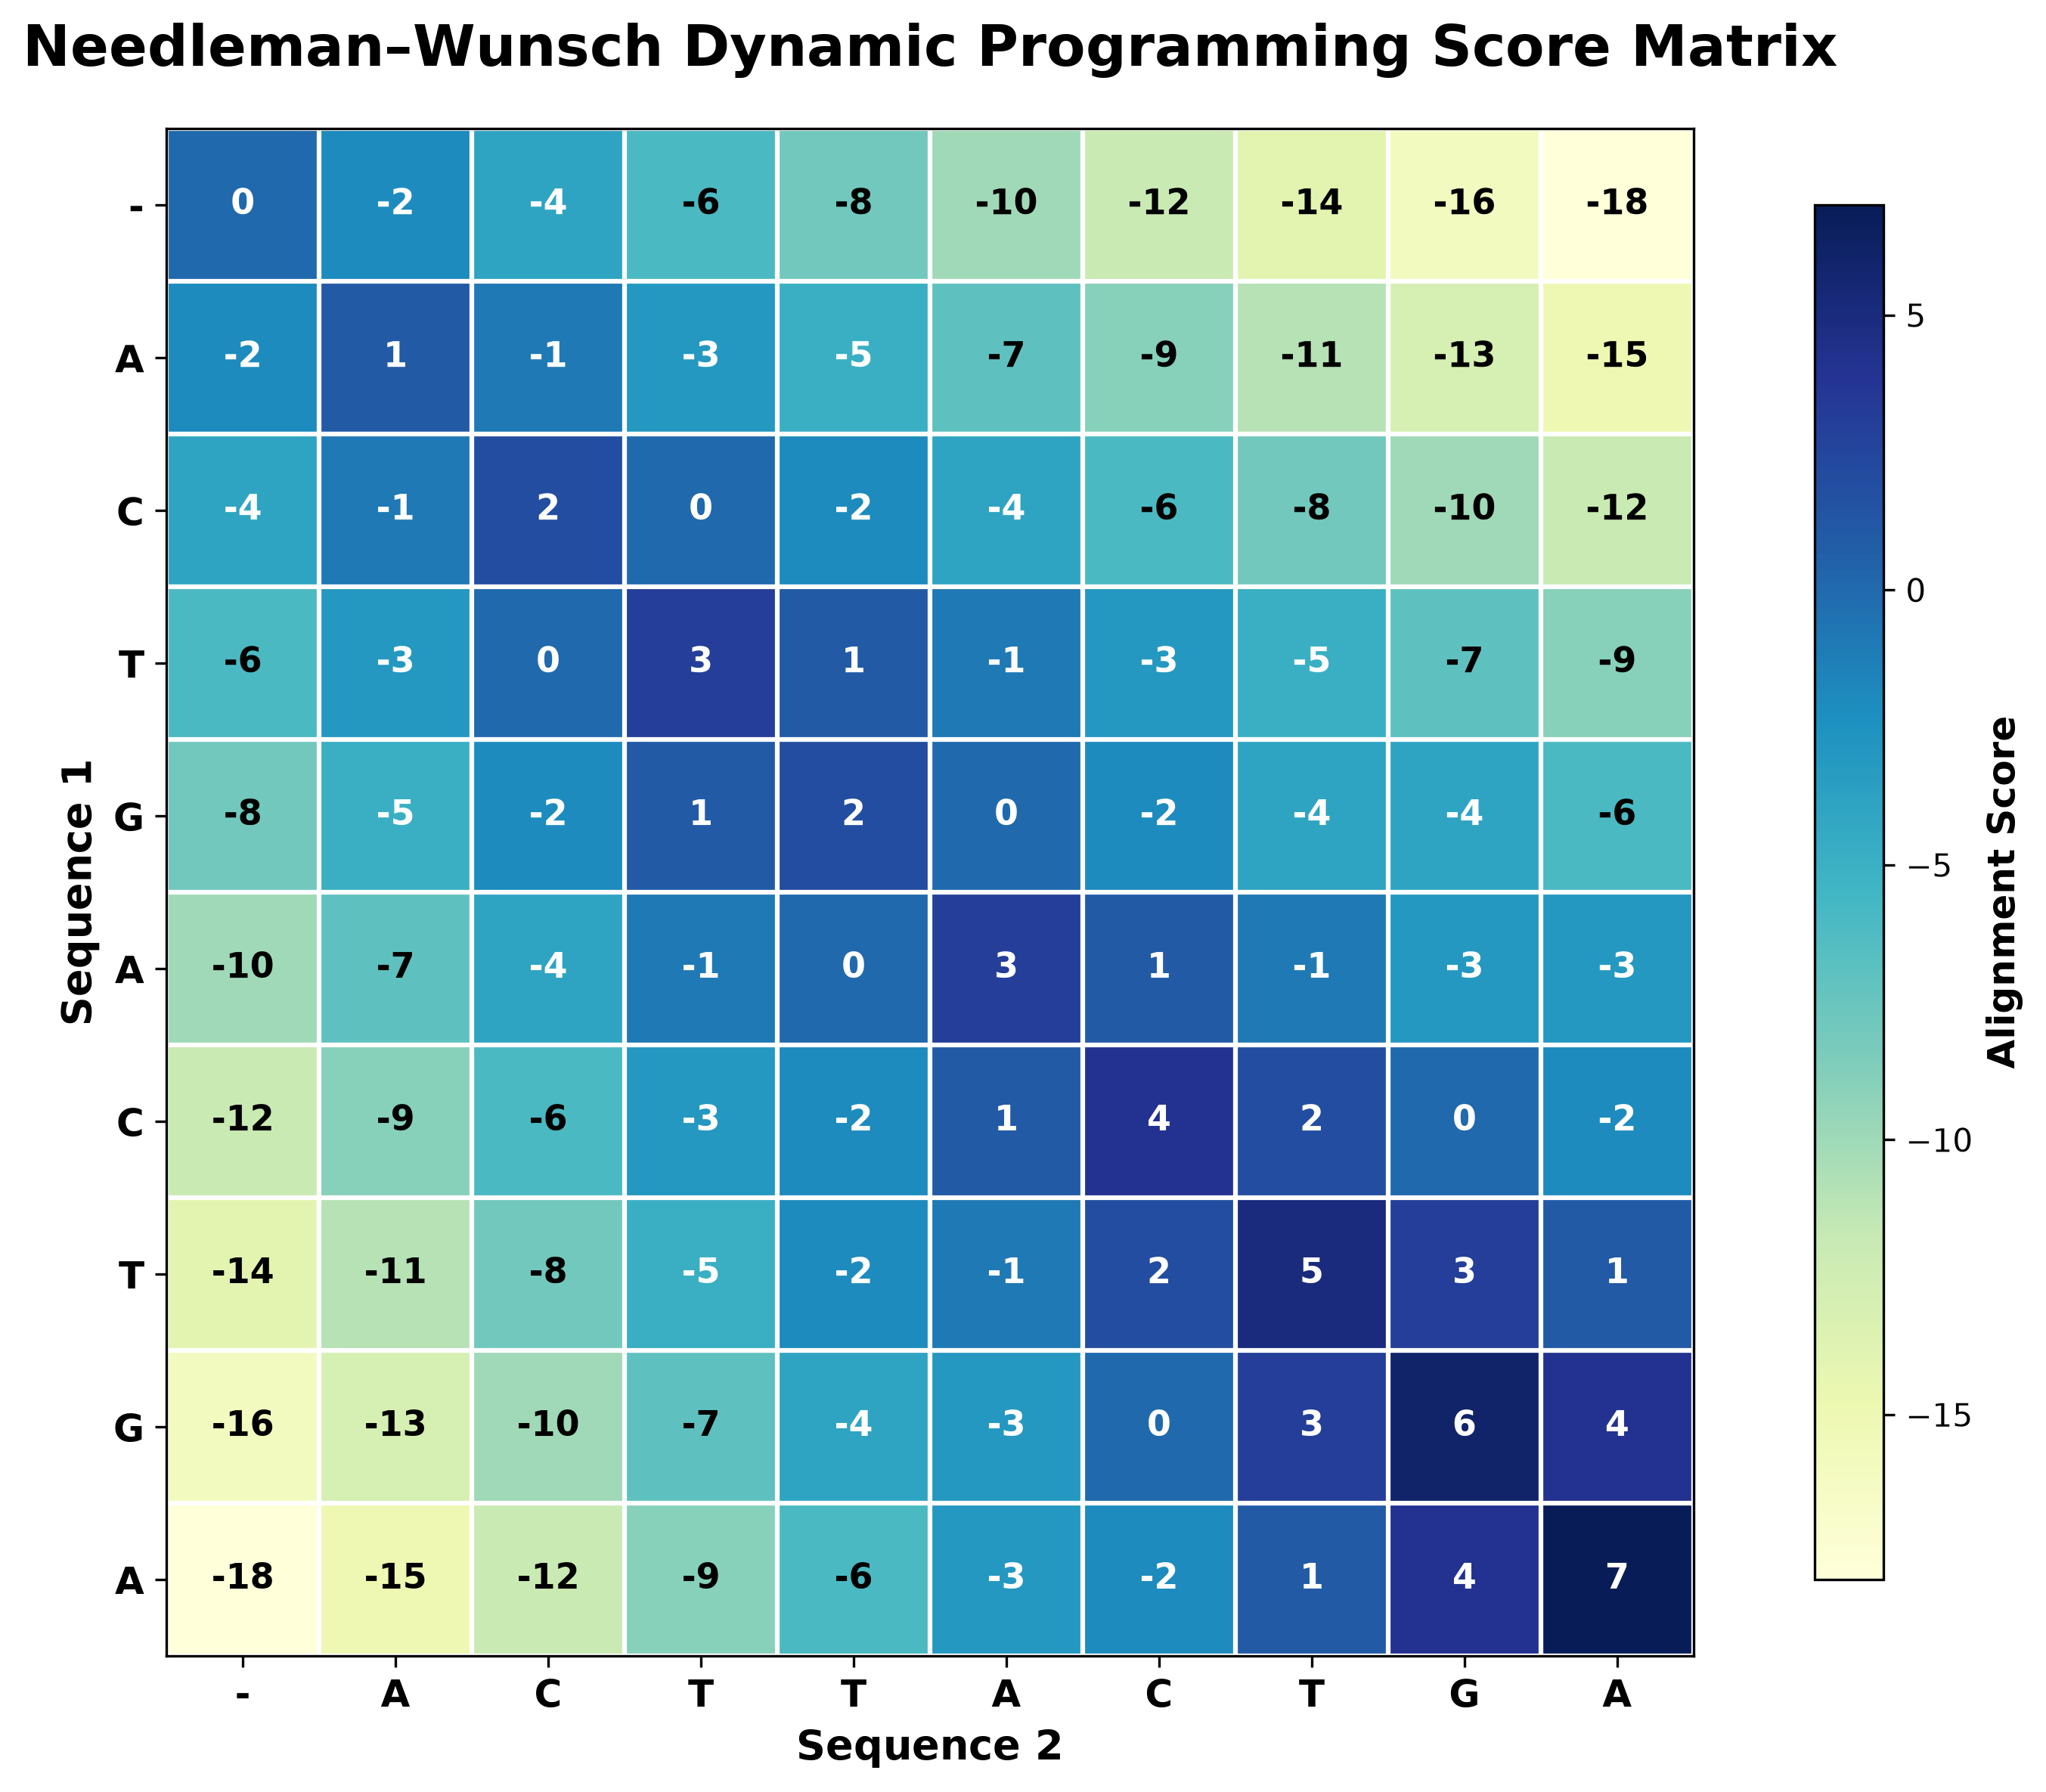
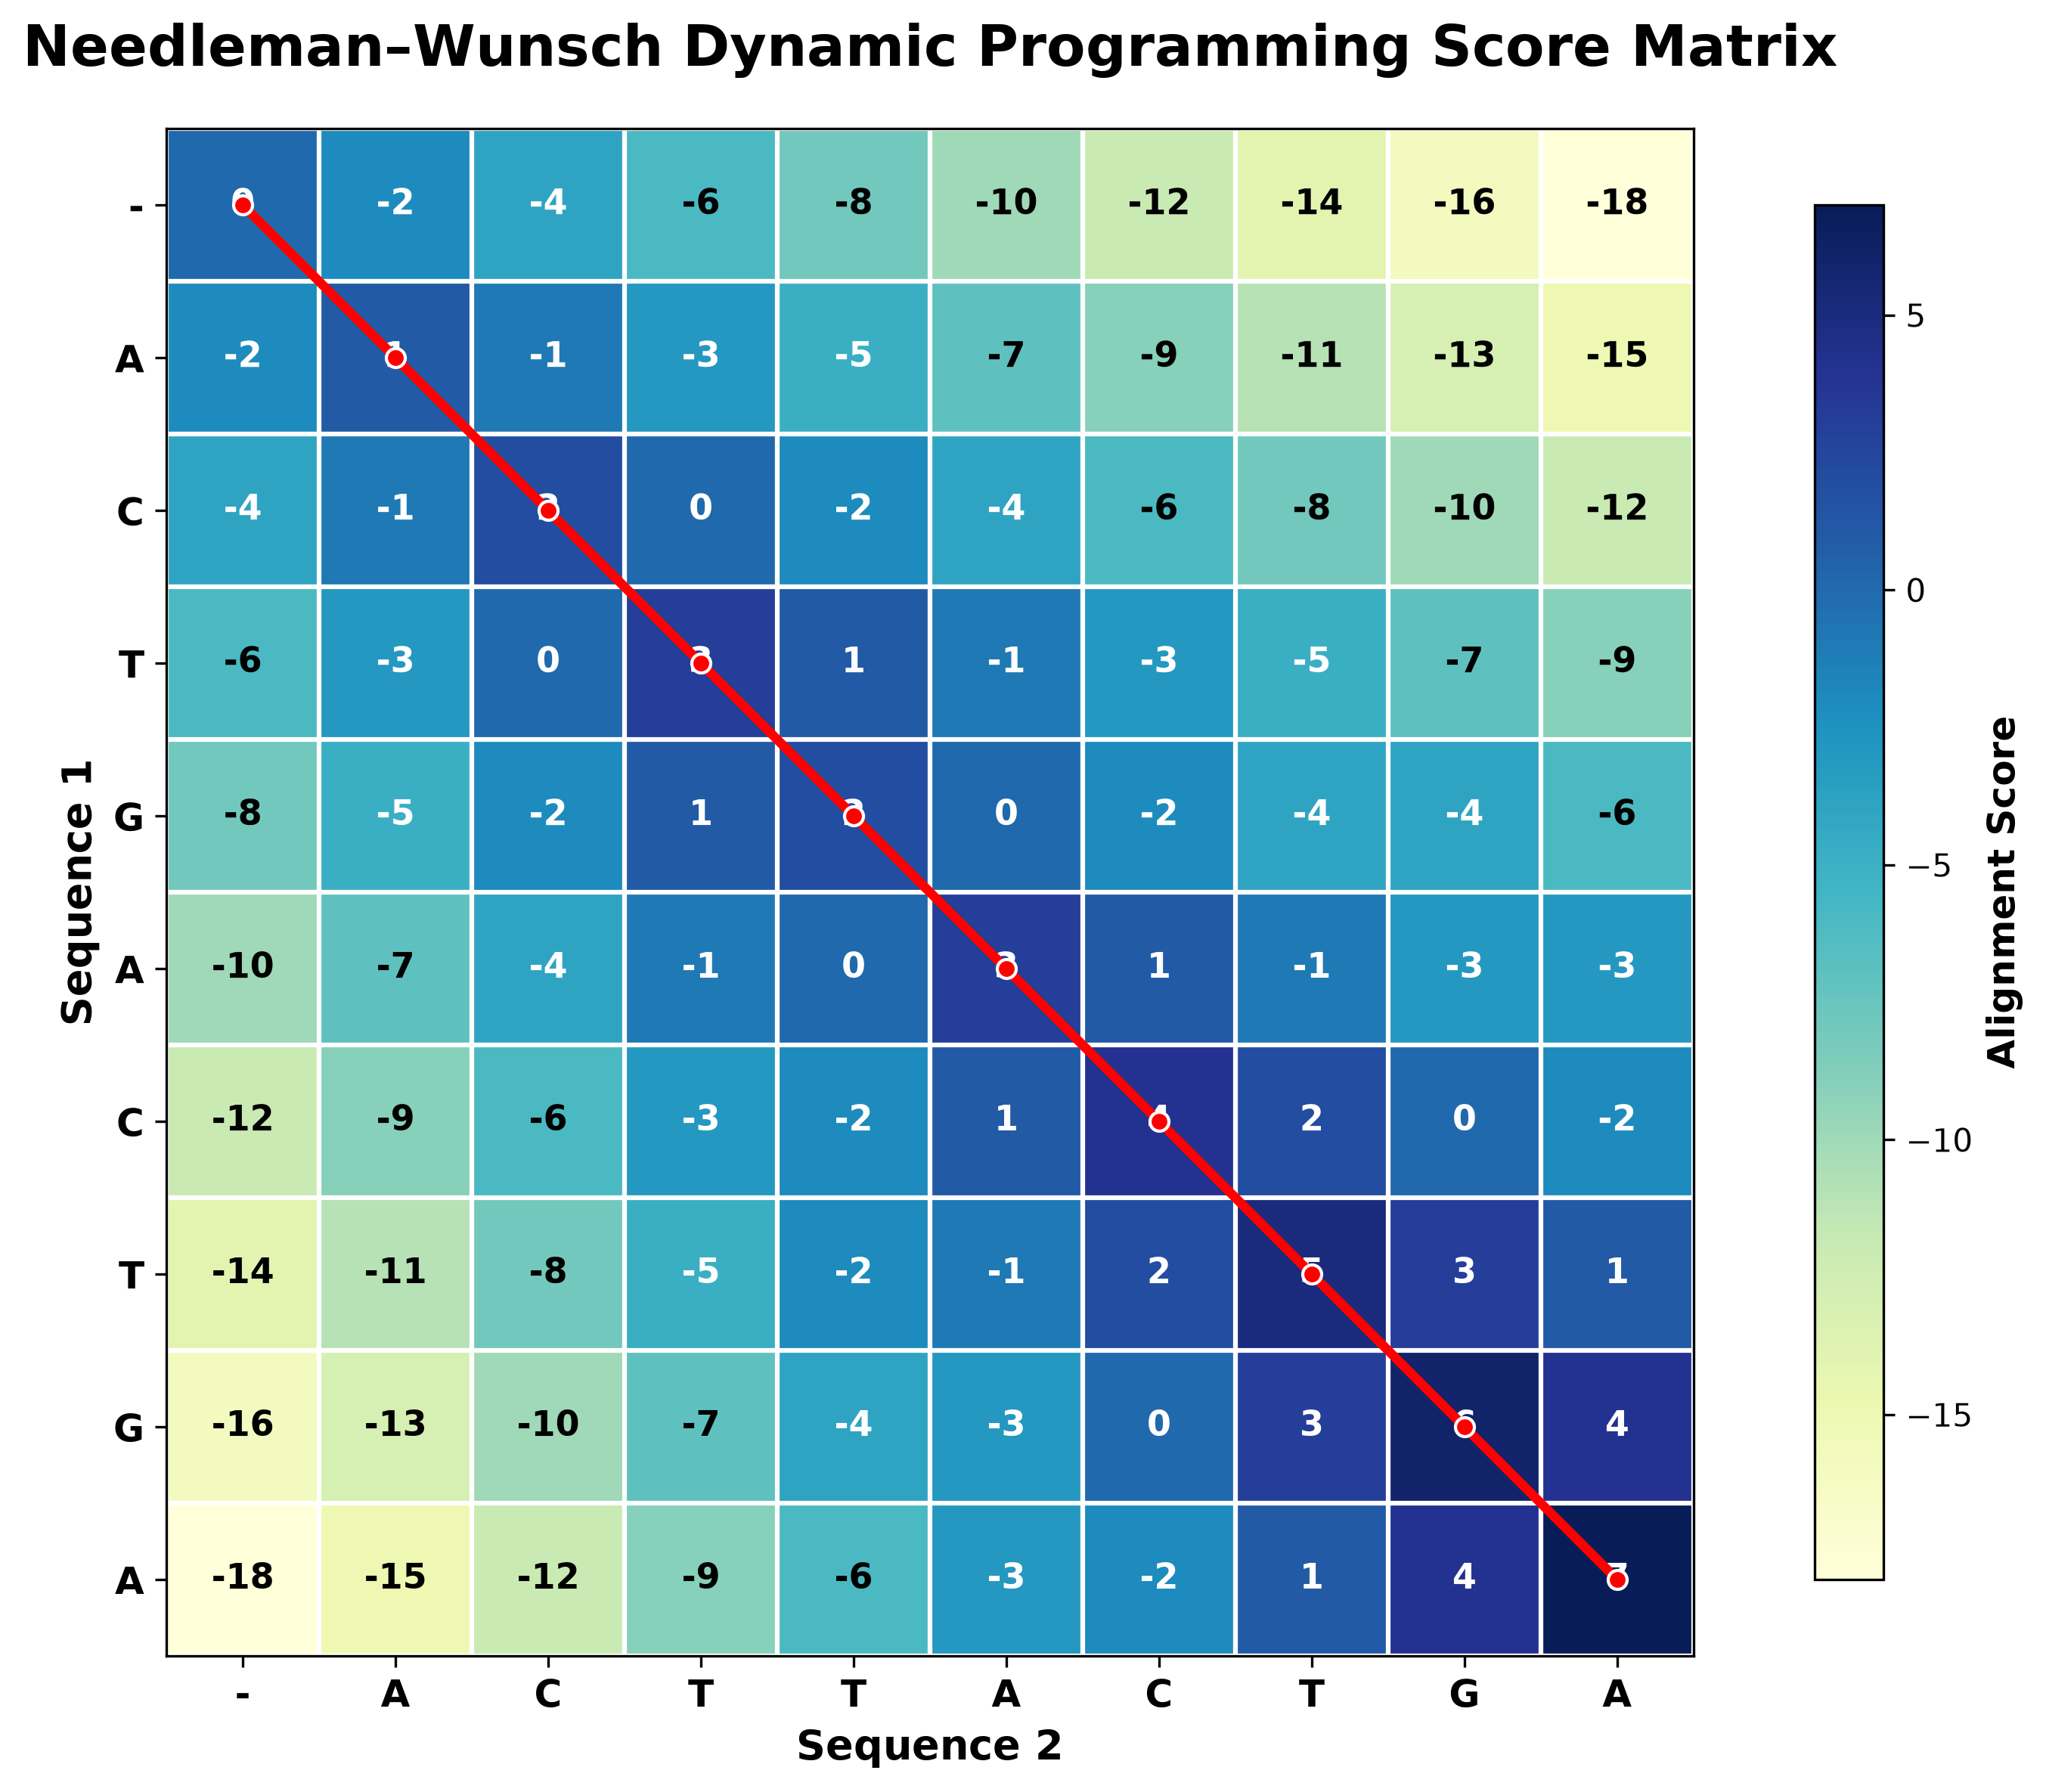
Add traceback visualization to score matrix

diff --git a/algorithms.py b/algorithms.py
@@ -102,10 +102,14 @@ def traceback(
     aligned_seq1 = []
     aligned_seq2 = []
 
+    traceback_path = []
+
     i = len(seq1)
     j = len(seq2)
 
     while i > 0 and j > 0:
+
+        traceback_path.append((i, j))
 
         if seq1[i - 1] == seq2[j - 1]:
             score = match_score
@@ -140,22 +144,15 @@ def traceback(
 
             j -= 1
 
-    while i > 0:
-
-        aligned_seq1.append(seq1[i - 1])
-        aligned_seq2.append("-")
-        i -= 1
-
-    while j > 0:
-
-        aligned_seq1.append("-")
-        aligned_seq2.append(seq2[j - 1])
-        j -= 1
-
     aligned_seq1.reverse()
     aligned_seq2.reverse()
+
+    traceback_path.append((0, 0))
+    traceback_path.reverse()
 
     return (
         "".join(aligned_seq1),
         "".join(aligned_seq2),
+        traceback_path,
     )
+    

diff --git a/visualization.py b/visualization.py
@@ -8,6 +8,7 @@ def plot_score_matrix(
     seq1,
     seq2,
     output_file,
+    traceback_path,
 ):
     """
     Plot the Needleman-Wunsch score matrix as a heatmap.
@@ -118,6 +119,23 @@ def plot_score_matrix(
                 fontweight="bold",
                 color=color,
             )
+
+    if traceback_path:
+
+        rows = [p[0] for p in traceback_path]
+        cols = [p[1] for p in traceback_path]
+
+        ax.plot(
+            cols,
+            rows,
+            color="red",
+            linewidth=3,
+            marker="o",
+            markersize=6,
+            markerfacecolor="red",
+            markeredgecolor="white",
+            zorder=10,
+        )
 
     plt.tight_layout()
 

diff --git a/align.py b/align.py
@@ -83,7 +83,7 @@ def main():
         GAP_PENALTY,
     )
 
-    aligned_seq1, aligned_seq2 = traceback(
+    aligned_seq1, aligned_seq2,traceback_path = traceback(
         matrix,
         seq1,
         seq2,
@@ -100,6 +100,9 @@ def main():
     print("Completed Score Matrix\n")
     print(matrix)
 
+    print("\nTraceback Path")
+    print("----------------")
+    print(traceback_path)
 
     print("\nOptimal Alignment")
     print("-----------------")
@@ -120,6 +123,7 @@ def main():
         seq1,
         seq2,
         "output/score_matrix_heatmap.png",
+        traceback_path,
     )
 
     print("\nScore matrix heatmap saved to output/score_matrix_heatmap.png")